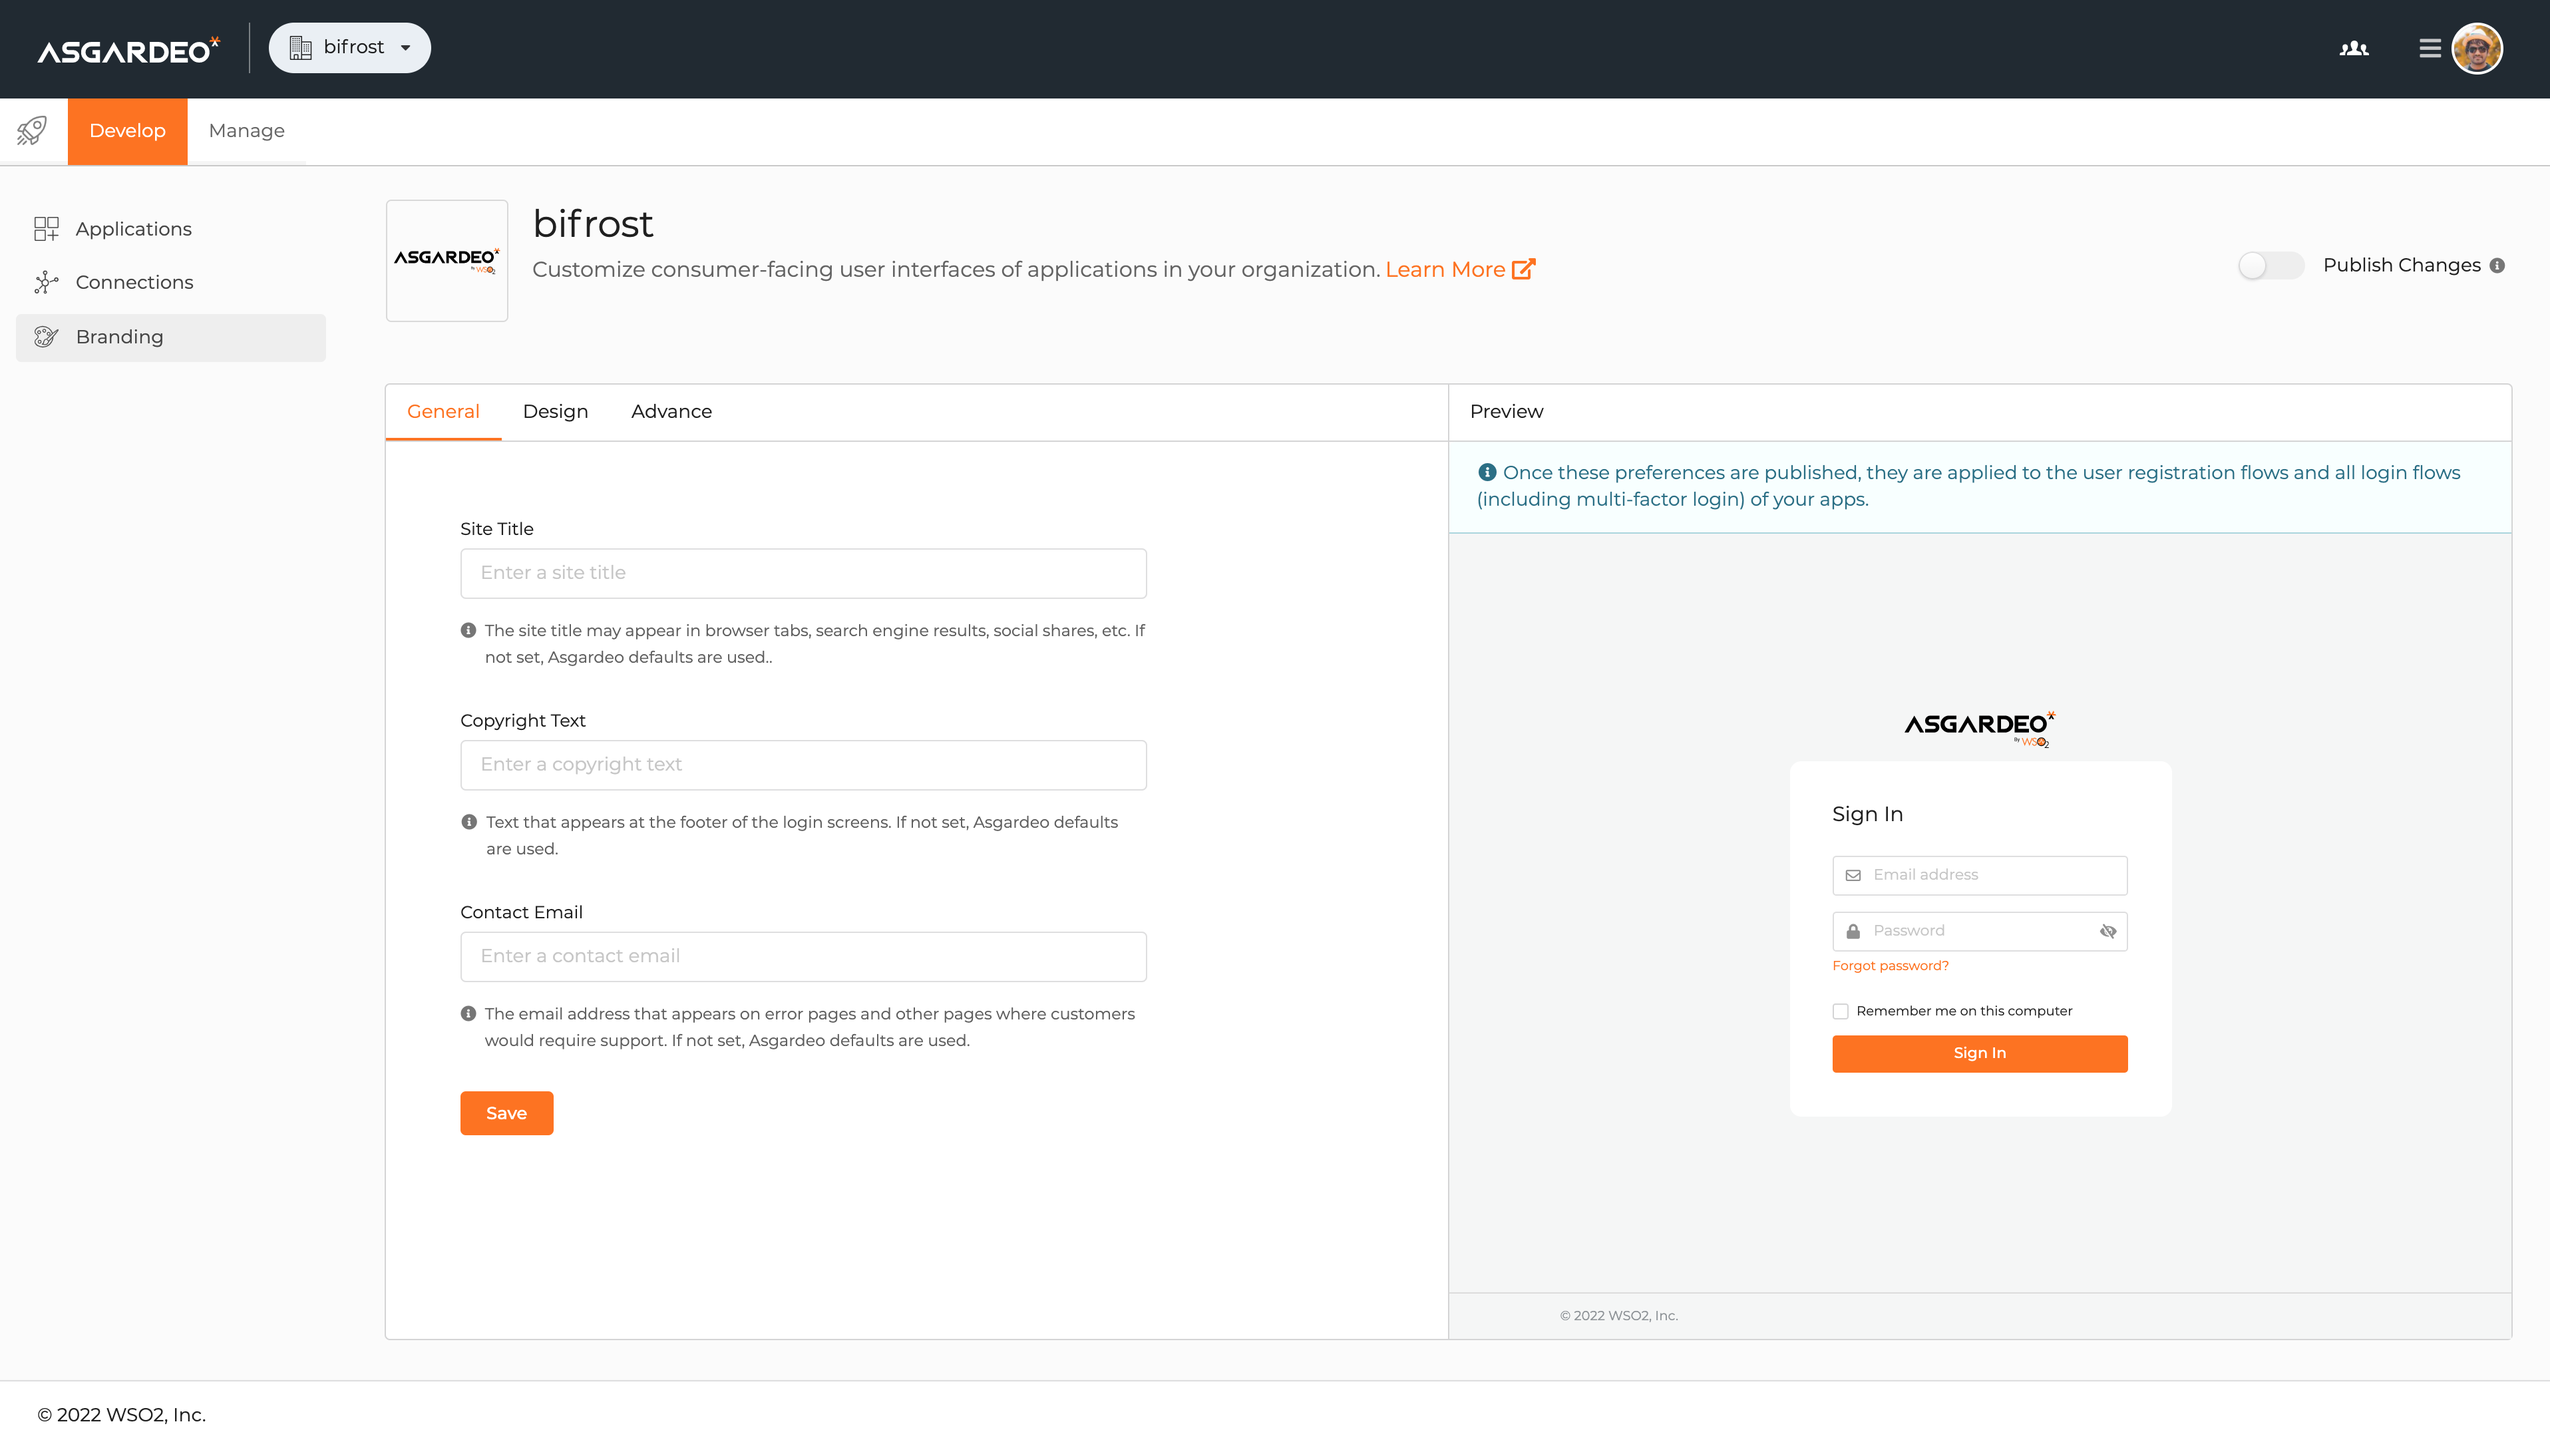
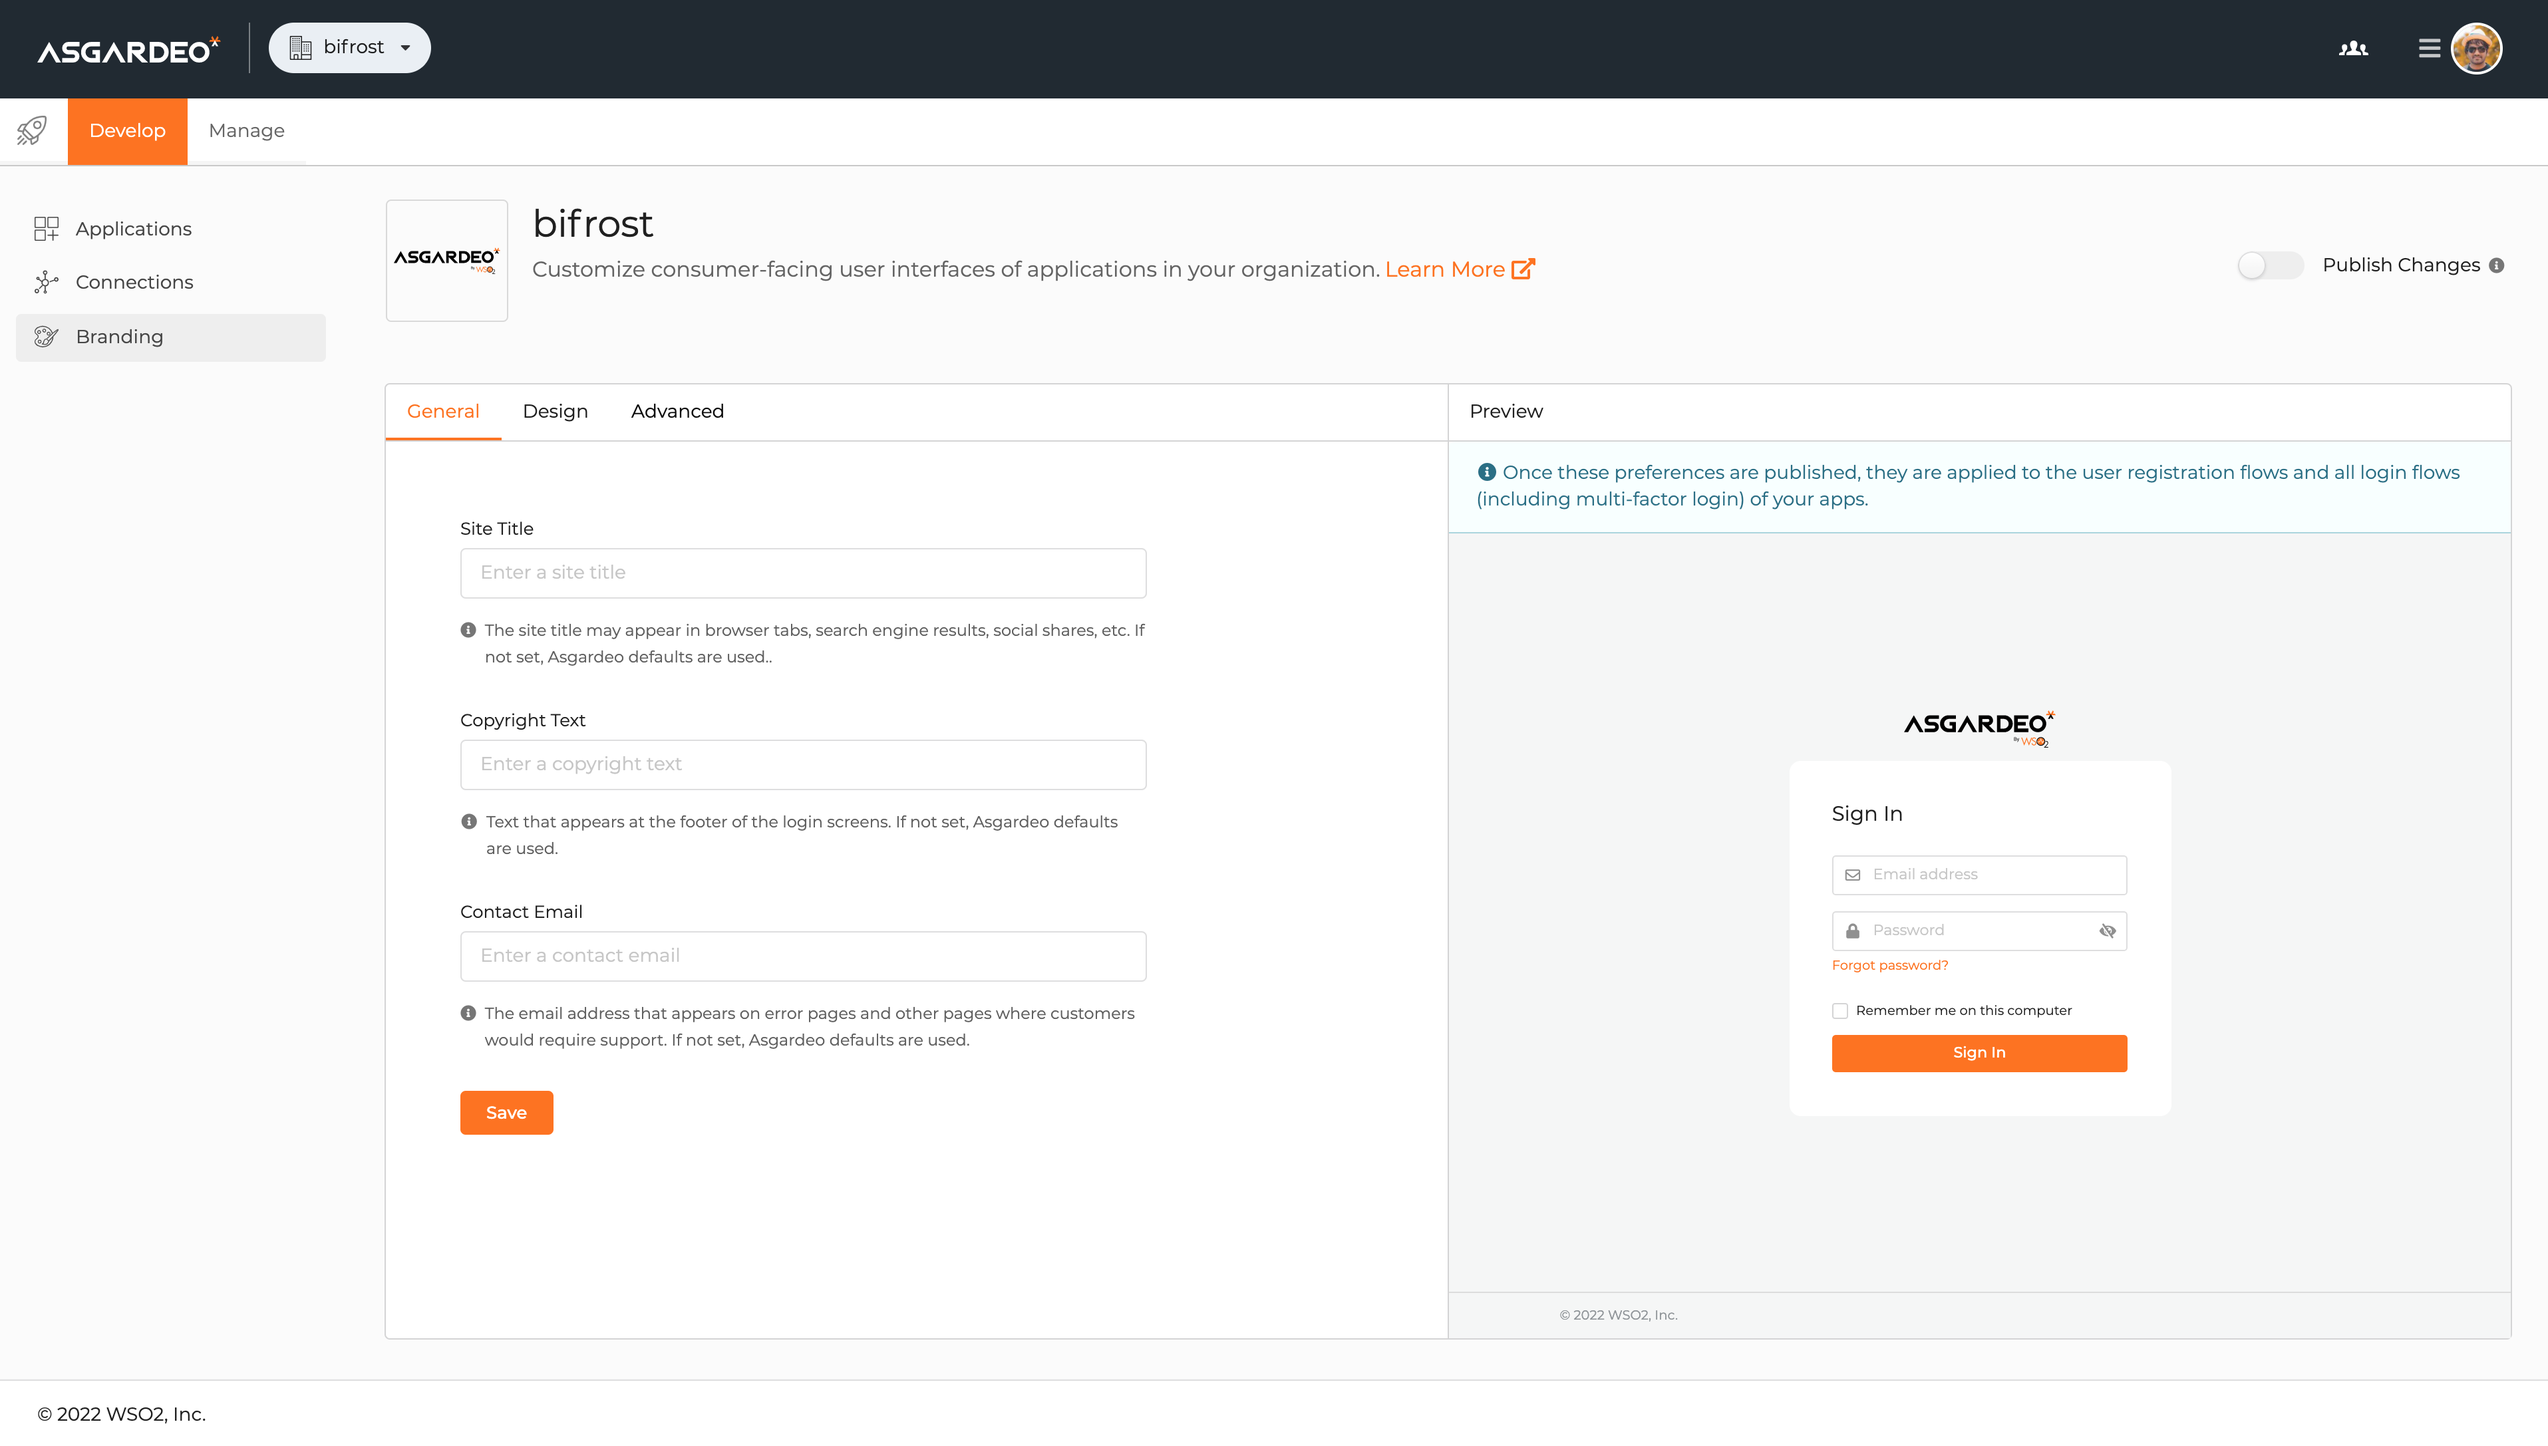
Change `Advance` -> `Advanced`

diff --git a/docs/guides/branding/README.md b/docs/guides/branding/README.md
@@ -15,7 +15,7 @@ Follow the steps given below to configure the branding preferences for your orga
 
     <img :src="$withBase('/assets/img/guides/branding/branding-asgardeo-console-ui.png')" alt="Asgardeo Console - Branding UI">
 
-2. Update the [available branding options](#branding-preferences) in the **General**, **Design**, and **Advance**tabs.
+2. Update the [available branding options](#branding-preferences) in the **General**, **Design**, and **Advanced**tabs.
 
 ::: info Note
 -   If you leave any of the branding preferences empty, Asgardeo defaults will be used.
